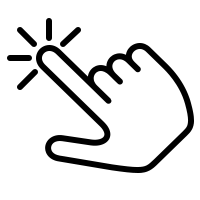
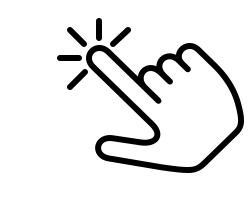
positionnement plus fiable des icones 'clicIndex' et 'guider vers' et agrandissement vers la gauche du clicIndex.png

Changed region(s): [[0.03, 0.09, 0.99, 0.87]]

diff --git a/public/css/style.css b/public/css/style.css
@@ -31,7 +31,7 @@
 /* pharma ouvre dans ...    (accueil)  :  black    noir             */
 /* pharma ferme dans ...    (accueil)  :  #F29200  orange           */
 
-/*   - tel commissariat (horaires)                                  */
+/*   - tel commissariat (horaires)        supprimé  !!!             */
 
 
 
@@ -524,7 +524,7 @@ ul{
 	left: -0.8rem;
 }
 
-/* tel en gras et souligné */
+/* tel cliquable, de couleur et souligné */
 /* (par défaut dans le body, on a mis les liens en black)   */
 #iTelContact a{
 	text-decoration: underline;
@@ -539,8 +539,7 @@ ul{
 }
 #iTelContact img{
 	position: absolute;
-	top: 28%;
-	left: 74%;
+	top: 1rem;
 }
 /* soulignement et coloration du mail quand on passe dessus */
 .cColDroite p:nth-of-type(6) a{
@@ -625,33 +624,24 @@ ul{
 }
 
 /* icône du clicIndex */
-/* Attention : cArtiIntro est aussi utilisée dans prepaCommande ... */
-.cArtiIntro + article{
+#iModeEmploi{
 	position: relative;
+	padding: 1rem 0 5rem 3rem;
 }
-.cArtiIntro + article img{
+#iModeEmploi img{
 	position: absolute;
 	top: 2rem;
-	left: 15rem;
+	left: 16rem;
 }
-
-/*
-<article><p id='iModeEmploi'><a href='#'><h4>Mode d'emploi</h4></a><img class='cClicIndexTaille' src='img/clicIndex.png' alt=''></p>
-	<div class='cModeEmploi'>
-*/
-
-/* calage et couleur(s) du lien 'mode d'emploi' */
-#iModeEmploi h4{
-	padding: 1rem 0 5rem 3rem;
-	font-weight: normal; /* un h4 est en gras par défaut */
-}
-/* par défaut dans le body, on a mis les liens en black      */
-#iModeEmploi{
+/* calage et couleur(s) du lien 'mode d'emploi'          */
+/* par défaut dans le body, on a mis les liens en black  */
+#iModeEmploi a{
+	font-weight: 700;
 	text-decoration: underline;
 	color: #A55AA5;
 }
 /* ici on veut le colorer au passage de la souris et au clic */
-#iModeEmploi:hover{
+#iModeEmploi a:hover{
 	color: #585858;
 }
 /* par défaut, le mode d'emploi est masqué */
@@ -1172,6 +1162,7 @@ footer section:last-of-type{
 		font-size: 2rem; /* old 1.8 coordonnées de la pharmacie */
 	}
 
+
 	/*     page prepaOrdonnance     */
 
 	/* marges autour du § d'introduction situé au dessus du formulaire */
@@ -1185,6 +1176,20 @@ footer section:last-of-type{
 	/*  § Mode d'emploi  */
 	.cModeEmploi{
 		margin: 0 2rem 2rem 2rem;		/* old : 0 .5rem 2rem .5rem		*/
+	}
+	/* icône du clicIndex */
+	#iModeEmploi img{
+		top: 2.2rem;
+		left: 18rem;
+	}
+
+	/*      page PharmaDeGarde      */
+
+	/* icône de guidage GPS */
+	.cPdGplan img{
+		width: 4rem;
+		top: -.4rem;
+		left: 17rem;
 	}
 
 	/*           page humour           */
@@ -1304,6 +1309,11 @@ footer section:last-of-type{
 		font-size: 3rem; /* old 2 */
 	}
 
+	/* icône du clicIndex */
+	#iTelContact img{
+		top: 2rem;
+	}
+
 
 	/* Footer */
 
@@ -1330,10 +1340,25 @@ footer section:last-of-type{
 		padding: 3rem;					/* old : 2rem					*/
 		margin: 0 3rem 3rem 3rem;		/* old : 0 2rem 2rem 2rem		*/
 	}
+	/* icône du clicIndex */
+	#iModeEmploi img{
+		top: 2.5rem;
+		left: 21rem;
+	}
 
 	/*        page horaires         */
+
 	.cHoraires, .cHorairesInfos{
 		width: 85%;						/* old : 90%   */
+	}
+
+	/*      page PharmaDeGarde      */
+
+	/* icône de guidage GPS */
+	.cPdGplan img{
+		width: 4.5rem;
+		top: -0.5rem;
+		left: 19rem;
 	}
 
 	/*           page humour           */
@@ -1414,6 +1439,23 @@ footer section:last-of-type{
 
 	.cChampForm input, .cChampForm textarea{
 		font-size: 2.5rem; /* old 2.3 */
+	}
+
+	/*     page prepaOrdonnance     */
+
+	/* icône du clicIndex */
+	#iModeEmploi img{
+		top: 2.8rem;
+		left: 22rem;
+	}
+
+	/*      page PharmaDeGarde      */
+
+	/* icône de guidage GPS */
+	.cPdGplan img{
+		width: 5rem;
+		top: 0.2rem;
+		left: 21rem;
 	}
 
 	/*           page humour           */

diff --git a/public/contact.php b/public/contact.php
@@ -411,7 +411,7 @@ ini_set("display_errors", 1);  // affichage des erreurs - à virer à la mise en
 			<p><?= NOM_PHARMA ?></p>
 			<p><?= ADR_PHARMA_L1 ?></p>
 			<p><?= CP_PHARMA ?> <?= VIL_PHARMA ?></p>
-			<p id='iTelContact'><img class='cClicIndexTaille' src='img/clicIndex.png' alt=''><a href='tel:<?= TEL_PHARMA_UTIL ?>'><i class='fa fa-phone' aria-hidden='true'></i><?= TEL_PHARMA_DECO ?></a></p>
+			<p id='iTelContact'><a href='tel:<?= TEL_PHARMA_UTIL ?>'><i class='fa fa-phone' aria-hidden='true'></i><?= TEL_PHARMA_DECO ?></a><img class='cClicIndexTaille' src='img/clicIndex.png' alt=''></p>
 			<p><i class='fa fa-fax' aria-hidden='true'></i><?= FAX_PHARMA_DECO ?></p>
 			<p><a href='mailto:<?= ADR_MAIL_PHARMA ?>'><i class='fa fa-envelope' aria-hidden='true'></i><?= ADR_MAIL_PHARMA ?></a></p>
 			<p>

diff --git a/public/prepaOrdonnance.php b/public/prepaOrdonnance.php
@@ -513,7 +513,7 @@ ini_set("display_errors", 1);  // affichage des erreurs - à virer à la mise en
 					<p>Si tous les produits sont en stock, le délai moyen de préparation est d'environ 2 h, sinon une demi-journée suffit en général.</p>
 				</div>
 
-				<article><p id='iModeEmploi'><a href='#'><h4>Mode d'emploi</h4></a><img class='cClicIndexTaille' src='img/clicIndex.png' alt=''></p>
+				<article><p id='iModeEmploi'><a href='#'>Mode d'emploi</a><img class='cClicIndexTaille' src='img/clicIndex.png' alt=''></p>
 
 					<div class='cModeEmploi'>
 						<div>Il suffit de suivre ces <span>4 étapes :</span></div>
